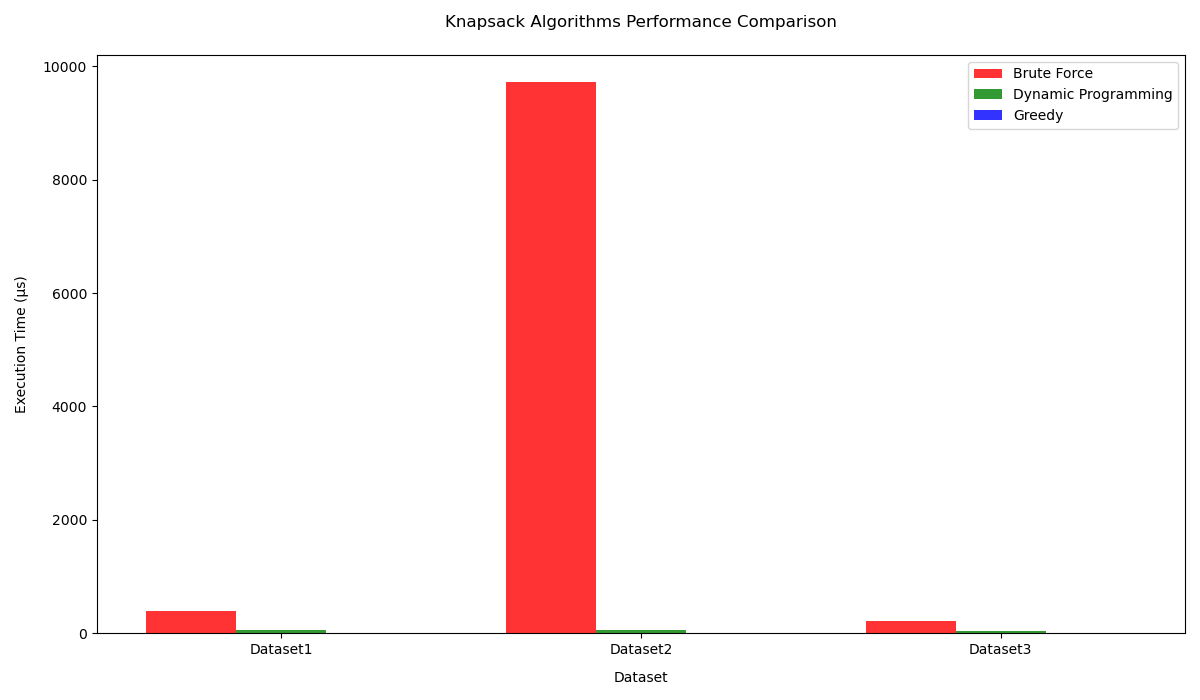
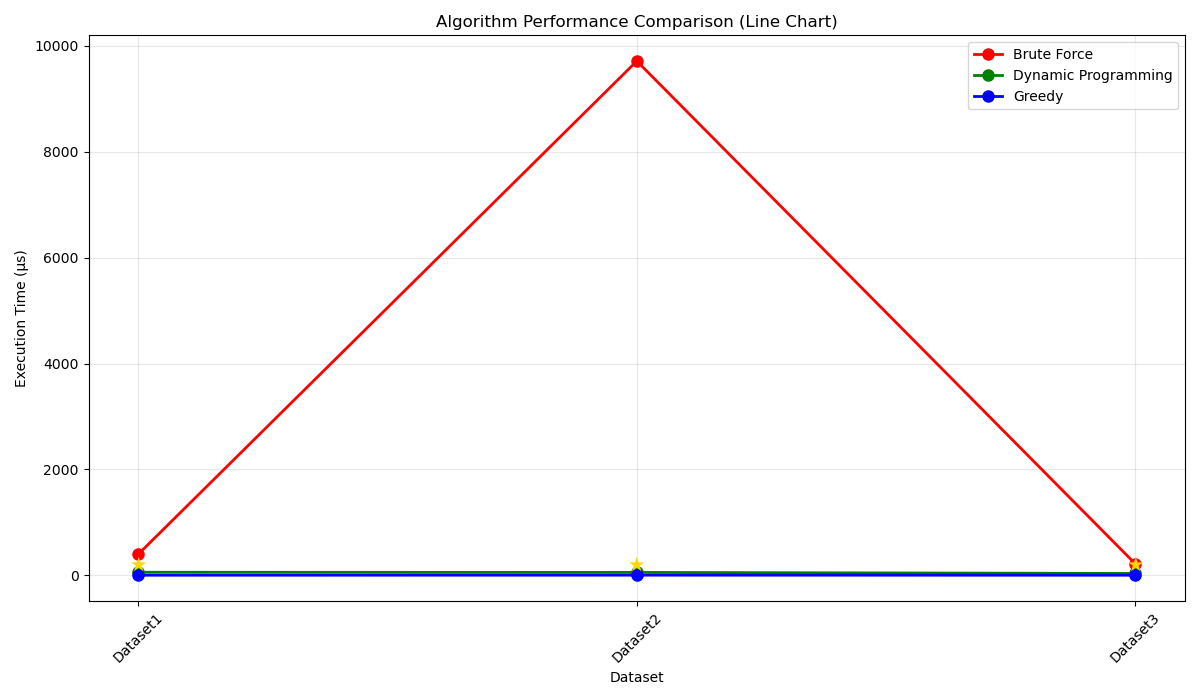
charts look better

diff --git a/performance_analysis/analysis.py b/performance_analysis/analysis.py
@@ -1,35 +1,40 @@
 import matplotlib.pyplot as plt
 import pandas as pd
+import numpy as np
 
 BRUTEFORCE_DATA = "./data/bruteforce_report.csv"
 DYNAMICPROG_DATA = "./data/dynamicprog_report.csv"
 GREEDY_DATA = "./data/greedy_report.csv"
 
-def plot_algorithm(data : pd.DataFrame, algorithm_name : str, color : str):
+def plot_algorithm(algorithm_data, algorithm_name : str, color : str):
+    plt.style.use('seaborn-v0_8')
+    plt.figure(figsize=(10, 6))
 
-    fig, ax = plt.subplots(figsize=(10, 6))
+    algorithm_data = algorithm_data.sort_values("NumberPallets")
+    x = algorithm_data["NumberPallets"]
+        
+    plt.plot(x, algorithm_data["TimeMicroseconds"],
+            marker='o',
+            markersize=8,
+            color=color,
+            linewidth=2,
+            alpha=0.8)
     
-    bars = ax.bar(
-        x=data["Dataset"],
-        height=pd.to_numeric(data["TimeMicroseconds"]),
-        color=color,
-        alpha=0.7,
-        width=0.6
-    )
-
-    ax.set_title(f"{algorithm_name} Algorithm Performance", pad=20)
-    ax.set_xlabel("Dataset", labelpad=10)
-    ax.set_ylabel("Execution Time (µs)", labelpad=10)
+    # add data labels
+    for (xi, yi) in (zip(x, algorithm_data["TimeMicroseconds"])):
+        plt.annotate(f"{int(yi)}µs", 
+                    (xi, yi),
+                    textcoords="offset points",
+                    xytext=(0, 10),
+                    ha='center',
+                    fontsize=9)
     
-    for bar in bars:
-        height = bar.get_height()
-        ax.text(
-            bar.get_x() + bar.get_width()/2.,
-            height,
-            f'{int(height)} µs',
-            ha='center',
-            va='bottom'
-        )
+    # Customize chart
+    plt.title(f"{algorithm_name} Performance", pad=20, fontsize=14)
+    plt.xlabel("Number of Pallets", labelpad=10, fontsize=12)
+    plt.ylabel("Execution Time (µs)", labelpad=10, fontsize=12)
+    plt.xticks(x)
+    plt.grid(True, alpha=0.3)
     
     plt.tight_layout()
     plt.savefig(f"./output/{algorithm_name.lower().replace(' ', '')}_performance.png")
@@ -37,32 +42,33 @@ def plot_algorithm(data : pd.DataFrame, algorithm_name : str, color : str):
         
 def plot_combined(algorithms_data):
 
-    fig, ax = plt.subplots(figsize=(12, 7))
+    plt.figure(figsize=(12, 7))
     
-    width = 0.25  # bar width
-
     x = range(len(algorithms_data[0]["data"]["Dataset"]))
     
-    for i, algorithm in enumerate(algorithms_data):
+    for algorithm in algorithms_data:
         data = algorithm["data"]
-        name = algorithm["name"]
-        color = algorithm["color"]
-        
-        ax.bar(
-            [pos + width*i for pos in x], 
-            data["TimeMicroseconds"], 
-            width=width, 
-            label=name, 
-            color=color, 
-            alpha=0.8
-        )
+        plt.plot(x, data["TimeMicroseconds"],
+                marker='o',
+                linewidth=2,
+                markersize=8,
+                color=algorithm["color"],
+                label=algorithm["name"])
     
-    ax.set_title("Knapsack Algorithms Performance Comparison", pad=20)
-    ax.set_xlabel("Dataset", labelpad=10)
-    ax.set_ylabel("Execution Time (µs)", labelpad=10)
-    ax.set_xticks([pos + width for pos in x])
-    ax.set_xticklabels(algorithms_data[0]["data"]["Dataset"])
-    ax.legend()
+    plt.title("Algorithm Performance Comparison (Line Chart)")
+    plt.xlabel("Dataset")
+    plt.ylabel("Execution Time (µs)")
+    plt.xticks(x, algorithms_data[0]["data"]["Dataset"], rotation=45)
+    plt.legend()
+    plt.grid(True, alpha=0.3)
+    
+    # highlight fastest algorithm at each point
+    for i in x:
+        times = [alg["data"]["TimeMicroseconds"].iloc[i] for alg in algorithms_data]
+        min_time = min(times)
+        plt.annotate("★", (i, min_time), 
+                    ha='center', va='bottom',
+                    fontsize=14, color='gold')
     
     plt.tight_layout()
     plt.savefig("./output/algorithms_comparison.png")
@@ -79,19 +85,29 @@ def load_data():
     
     for (name, color, path) in alg:
         data = pd.read_csv(path)
+        data["TimeMicroseconds"] = pd.to_numeric(data["TimeMicroseconds"])
+
+        data.sort_values("TimeMicroseconds")
+
         plot_algorithm(data, name, color)
-        valid_data.append({"data": data, "name": name, "color": color})
+
+        valid_data.append({
+            "data": data,
+            "name": name,
+            "color": color
+        })
 
     return valid_data
 
 def main():
 
     algorithms_data = load_data()
-    
-    for alg in algorithms_data:
-        alg["data"]["TimeMicroseconds"] = pd.to_numeric(alg["data"]["TimeMicroseconds"])
 
-    plot_combined(algorithms_data)
+    # commented pq n fica uma visualização de fato util por conta da escala
+    #plot_combined(algorithms_data)
+
+    for alg in algorithms_data:
+        plot_algorithm(alg["data"], alg["name"], alg["color"])
 
 if __name__ == "__main__":
     main()
